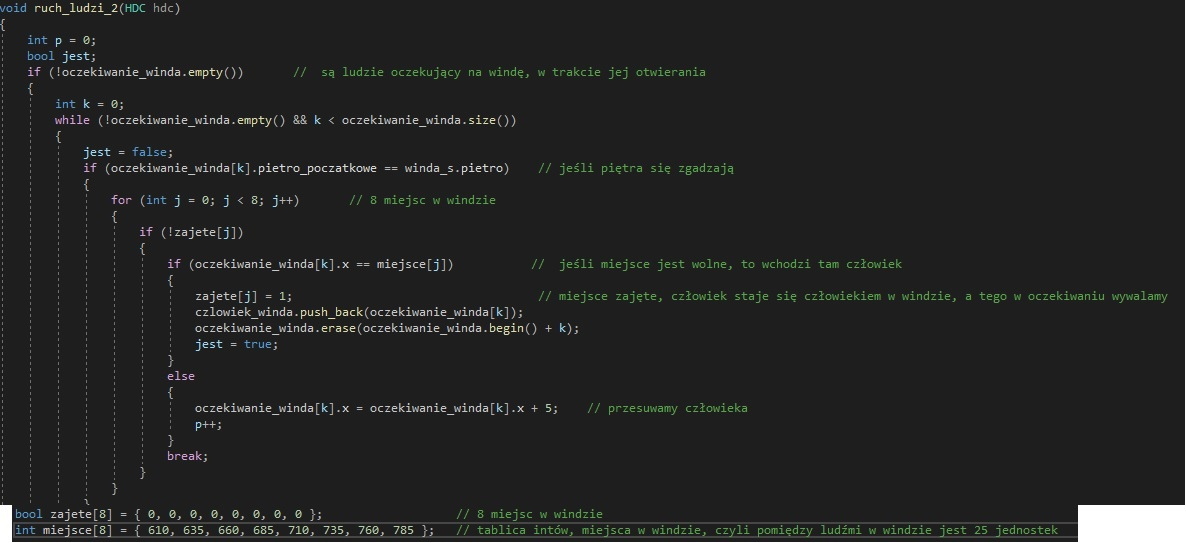
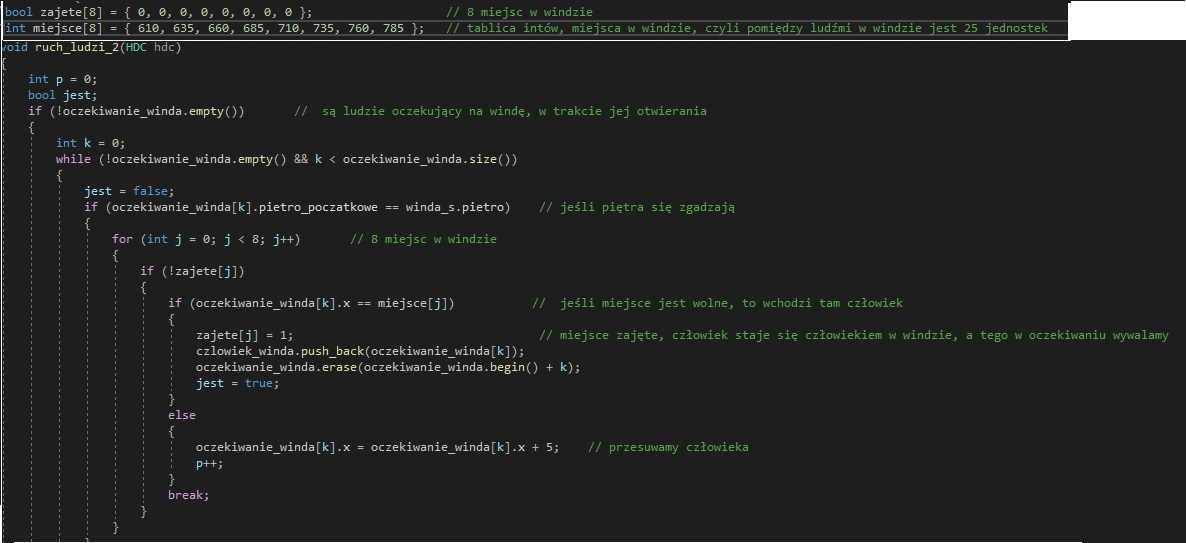
5sek

diff --git a/README.md b/README.md
@@ -8,7 +8,12 @@ Winda ma maksymalny udźwig 600kg, co przy ludziach ważących 70kg daje 8 osób
 <img align="left" width="900px" src="Zdjęcia\8osob.jpg"/>
 </br>
 Miejsce do kontroli maksymalnej liczby osób w kodzie</br>
-<img align="left" src="Zdjęcia\kod1.jpg"/>
+<img align="left" src="Zdjęcia\kod1.jpg"/></br>
+Winda oczekuje również na piętrze około 5 sekund, jeżeli nikt nie wsiada, to zjeżdża na dół
+<img align="left" src="Zdjęcia\5sek.jpg"/></br>
+<img align="left" src="Zdjęcia\5sek2.jpg"/></br>
+Miejsce w kodzie, które kontroluje windę w ten sposób
+<img align="left" src="Zdjęcia\kod2.jpg"/></br>
 
 
 
